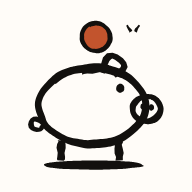
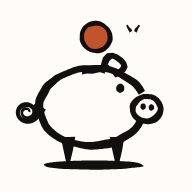
Fix the pig's legs, snout and tail
Three fixes, each one a thing that looked arbitrary until it was
pointed at:

Legs are filled wedges now, not tapered sticks. A tapered stroke keeps
its rounded cap, so it reads as a stick with a fat top; a wedge ends in
a point and reads as a leg. Two things follow from a wedge being a
SHAPE rather than a stroke: it takes its own small-size bump (1.15) and
not the nib's 1.45, which had merged both legs into one black mass at
40px; and its top sits on the body's outline rather than inside it,
because the body has no fill and a leg starting in the belly shows
through as a black skirt.

The body arc now stops either side of the snout instead of running
behind it. Drawn as a full ring, the body's right edge cut a chord
straight across the snout. Filling the snout would have hidden it, but
that ties the drawing to one background colour. The gap (0.36 rad) is
where the body ellipse meets the snout circle, so the two ends land on
it and read as a join rather than a hole -- which also means it is not a
constant and has to be re-derived if either shape moves.

The tail is an Archimedean spiral tightening over ~2.15 turns, drawn as
one tapering stroke, rather than the single loop it was. Its first two
points sit inside the body so it reads as attached.

Icons regenerated at all five sizes. ./test/run.sh green in all four
timezones; 55 browser checks pass.

Claude-Session: https://claude.ai/code/session_01B7aU3n4bgCnQVkLzktJ7si

Changed region(s): [[0.0625, 0.3438, 0.7812, 0.8438], [0.5312, 0.3438, 0.625, 0.4062], [0.4062, 0.3125, 0.5312, 0.3438]]

diff --git a/CLAUDE.md b/CLAUDE.md
@@ -548,6 +548,18 @@ back — that argument has been had and this table is the answer.
     larger. Copying it across would have shrunk the art for nothing.
 - **The coin never simplifies away.** It is the only colour and the only reason the tile reads
   as money rather than as an animal.
+- ⚠ **The body arc STOPS either side of the snout** (`GAP = 0.36` rad in `pig()`), it does not
+  run behind it. Drawn as a full ring, the body's right edge cuts a chord straight across the
+  snout; the snout has no fill to hide it, and giving it one would tie the drawing to a single
+  background colour. The gap is where the body ellipse meets the snout circle, so the two ends
+  land ON it and read as a join. **Re-derive it if either shape moves** — it is not a constant.
+- ⚠ **The legs are filled wedges, and their width is a SHAPE, not a stroke.** Two consequences:
+  they take their own small-size bump (`lw`, 1.15), never the nib's 1.45 — at 1.45 the two legs
+  merged into one black mass at 40px; and their tops sit at the body's **outline** (y ≈ 358 at
+  those x), not inside it, because the body has no fill and a leg starting in the belly shows
+  through as a black skirt.
+- **The tail is a spiral, not a loop** — an Archimedean curl tightening over ~2.15 turns, drawn
+  as one tapering stroke. Its first two points sit inside the body so it reads as attached.
 - **`icon-64.png` is the tab favicon**, drawn at `d: 1` (no tail, eye or nostrils; heavier nib).
   ⚠ **Downscaling the 192 for a 16–32px tab renders grey mush** — the detail that reads at 192
   is exactly what cannot survive there.
@@ -747,6 +759,10 @@ recorded here so they are not re-proposed as new.
    are derived from the pig's own bounds and are not reusable constants.
 9. **`icon-64.png` exists because the tab favicon is 16–32px**, where the 192 downscales into
    mush.
+9a. **The pig's anatomy is fixed by three rules, not by taste** (2026-09-04, fourth pass): the
+   body arc stops either side of the snout rather than cutting through it; the legs are filled
+   wedges starting at the outline; the tail is a spiral. All three are in §3.15 with the
+   reasoning, because each one is a thing that looks arbitrary until it is broken.
 10. **The capture sheet's parse wait got the receipt** (2026-09-04, same day). A different
    subject from the loader's bars, deliberately: it names what is being waited on. It
    **replaces** the send-arrow spinner rather than joining it, and reduced motion swaps them
